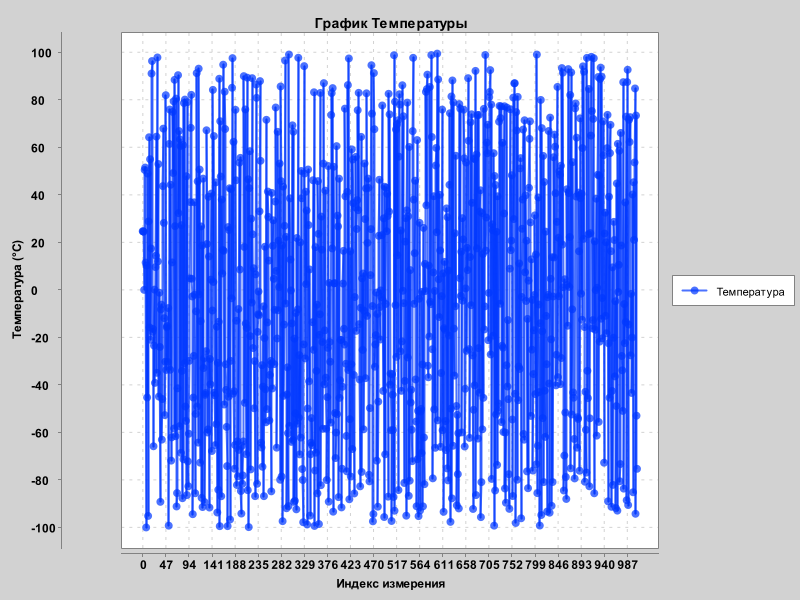
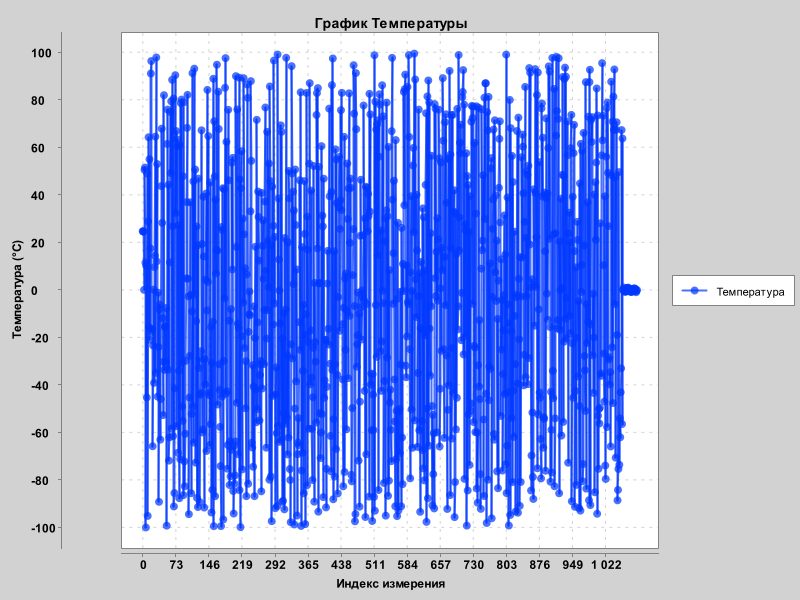
add test

diff --git a/src/test/java/by/lobanovs/weatherapp/MeasurementServiceTest.java b/src/test/java/by/lobanovs/weatherapp/MeasurementServiceTest.java
@@ -1,0 +1,54 @@
+package by.lobanovs.weatherapp;
+
+import by.lobanovs.weatherapp.models.Measurement;
+import by.lobanovs.weatherapp.models.Sensor;
+import by.lobanovs.weatherapp.repositories.MeasurementRepository;
+import by.lobanovs.weatherapp.repositories.SensorRepository;
+import by.lobanovs.weatherapp.services.MeasurementService;
+import org.junit.jupiter.api.Test;
+import org.junit.jupiter.api.extension.ExtendWith;
+import org.mockito.InjectMocks;
+import org.mockito.Mock;
+import org.mockito.junit.jupiter.MockitoExtension;
+
+import java.util.Optional;
+
+import static org.junit.jupiter.api.Assertions.assertEquals;
+import static org.junit.jupiter.api.Assertions.assertNotNull;
+import static org.mockito.Mockito.*;
+
+@ExtendWith(MockitoExtension.class)
+public class MeasurementServiceTest {
+    @Mock
+    private MeasurementRepository measurementRepository;
+
+    @Mock
+    private SensorRepository sensorRepository;
+
+    @InjectMocks
+    private MeasurementService measurementService;
+
+    @Test
+    void testSaveMeasurement() {
+        Measurement measurement = new Measurement();
+        measurement.setValue(25.0);
+        measurement.setRaining(true);
+
+        measurementService.save(measurement);
+
+        verify(measurementRepository, times(1)).save(measurement);
+        assertNotNull(measurement.getCreatedAt());
+    }
+
+    @Test
+    void testFindSensorByName() {
+        Sensor sensor = new Sensor();
+        sensor.setName("TestSensor");
+
+        when(sensorRepository.findByName("TestSensor")).thenReturn(Optional.of(sensor));
+
+        Sensor result = measurementService.findSensorByName("TestSensor");
+
+        assertEquals("TestSensor", result.getName());
+    }
+}

diff --git a/src/main/java/by/lobanovs/weatherapp/senderAndClient/MeasurementSender.java b/src/main/java/by/lobanovs/weatherapp/senderAndClient/MeasurementSender.java
@@ -37,7 +37,7 @@ public class MeasurementSender {
             // Генерация случайного значения для дождя
             boolean raining = random.nextBoolean();
 
-            String sensorName = "Sib"; // Название сенсора, которое вы хотите использовать
+            String sensorName = "1"; // Название сенсора, которое вы хотите использовать
             Sensor existingSensor = measurementService.findSensorByName(sensorName);
 
             // Создание JSON-объекта для отправки
@@ -61,11 +61,11 @@ public class MeasurementSender {
         Random random = new Random();
 
         // Генерация случайной температуры в диапазоне от -100 до 100
-        double temperature = -100 + (200 * random.nextDouble());
+        double temperature = -1 + (2 * random.nextDouble());
         // Генерация случайного значения для дождя
         boolean raining = random.nextBoolean();
 
-        String sensorName = "first"; // Название сенсора
+        String sensorName = "1"; // Название сенсора
         Sensor existingSensor = measurementService.findSensorByName(sensorName);
 
         // Создание JSON-объекта для отправки

diff --git a/src/test/java/by/lobanovs/weatherapp/MeasurementControllerTest.java b/src/test/java/by/lobanovs/weatherapp/MeasurementControllerTest.java
@@ -1,0 +1,38 @@
+package by.lobanovs.weatherapp;
+
+import org.junit.jupiter.api.Test;
+import org.springframework.beans.factory.annotation.Autowired;
+import org.springframework.boot.test.autoconfigure.web.servlet.AutoConfigureMockMvc;
+import org.springframework.boot.test.context.SpringBootTest;
+import org.springframework.http.MediaType;
+import org.springframework.test.web.servlet.MockMvc;
+
+import static org.springframework.test.web.servlet.request.MockMvcRequestBuilders.post;
+import static org.springframework.test.web.servlet.result.MockMvcResultMatchers.status;
+
+@SpringBootTest
+@AutoConfigureMockMvc
+public class MeasurementControllerTest {
+
+    @Autowired
+    private MockMvc mockMvc;
+
+    @Test
+    void testAddMeasurement() throws Exception {
+        String jsonRequest = """
+            {
+                "value": 22.5,
+                "raining": true,
+                "sensor": {
+                    "name": "first"
+                }
+            }
+            """;
+
+        mockMvc.perform(post("/measurements/add")
+                        .contentType(MediaType.APPLICATION_JSON)
+                        .content(jsonRequest))
+                .andExpect(status().isOk());
+    }
+}
+

diff --git a/src/main/java/by/lobanovs/weatherapp/services/MeasurementService.java b/src/main/java/by/lobanovs/weatherapp/services/MeasurementService.java
@@ -5,7 +5,6 @@ import by.lobanovs.weatherapp.models.Measurement;
 import by.lobanovs.weatherapp.models.Sensor;
 import by.lobanovs.weatherapp.repositories.MeasurementRepository;
 import by.lobanovs.weatherapp.repositories.SensorRepository;
-import by.lobanovs.weatherapp.util.Measurement.MeasurementNotCreatedException;
 import by.lobanovs.weatherapp.util.Sensor.SensorNotFoundException;
 import org.springframework.beans.factory.annotation.Autowired;
 import org.springframework.stereotype.Service;
@@ -50,6 +49,4 @@ public class MeasurementService {
     public Long getRainyDaysCount() {
         return measurementRepository.countRainyDays();
     }
-
-
 }

diff --git a/src/main/java/by/lobanovs/weatherapp/dto/MeasurementDTO.java b/src/main/java/by/lobanovs/weatherapp/dto/MeasurementDTO.java
@@ -6,7 +6,6 @@ import jakarta.persistence.JoinColumn;
 import jakarta.persistence.ManyToOne;
 import jakarta.validation.constraints.DecimalMax;
 import jakarta.validation.constraints.DecimalMin;
-import jakarta.validation.constraints.NotEmpty;
 import jakarta.validation.constraints.NotNull;
 
 public class MeasurementDTO {

diff --git a/src/main/java/by/lobanovs/weatherapp/controllers/SensorController.java b/src/main/java/by/lobanovs/weatherapp/controllers/SensorController.java
@@ -77,6 +77,4 @@ public class SensorController {
         // В HTTP ответе тело ответа и статус в заголовке
         return new ResponseEntity<>(response, HttpStatus.BAD_REQUEST); // 400 status
     }
-
-
 }
